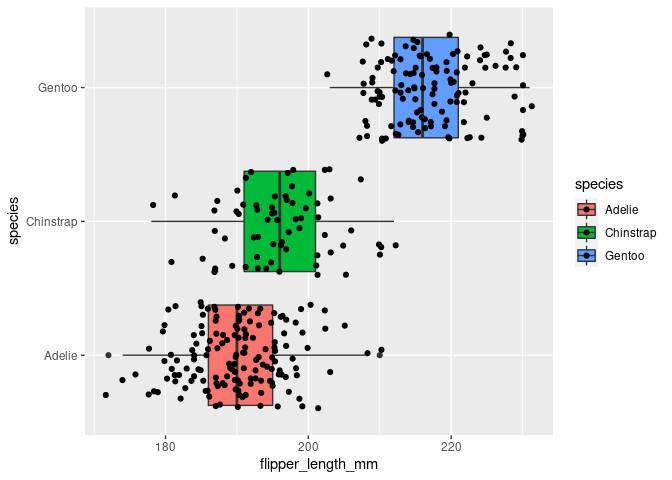
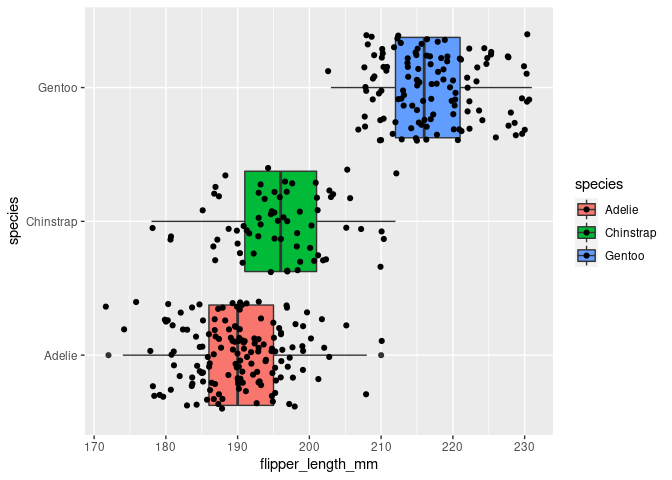
Added box plots to try and explain peaks in the histogram

diff --git a/activity02-ggplot2-intro.md b/activity02-ggplot2-intro.md
@@ -276,7 +276,36 @@ graphs). Using these three graphs to discuss which of these three
 categorical variables seems to be contributing more to these two peaks
 and explain your reasoning.
 
-**Response**:
+``` r
+ggplot(data = penguins, mapping = aes(x = bill_length_mm, y = species)) +
+geom_boxplot()
+```
+
+    ## Warning: Removed 2 rows containing non-finite values (stat_boxplot).
+
+![](activity02-ggplot2-intro_files/figure-gfm/bill_length_by_species-1.png)<!-- -->
+
+``` r
+ggplot(data = penguins, mapping = aes(x = bill_length_mm, y = sex)) +
+geom_boxplot()
+```
+
+    ## Warning: Removed 2 rows containing non-finite values (stat_boxplot).
+
+![](activity02-ggplot2-intro_files/figure-gfm/bill_length_by_sex-1.png)<!-- -->
+
+``` r
+ggplot(data = penguins, mapping = aes(x = bill_length_mm , y = island )) +
+geom_boxplot()
+```
+
+    ## Warning: Removed 2 rows containing non-finite values (stat_boxplot).
+
+![](activity02-ggplot2-intro_files/figure-gfm/bill_length_by_island-1.png)<!-- -->
+
+**Response**: the type of species and the island that they are found may
+have led to the peaks in the graphs because the two factors also lead to
+longer bill lengths as seen in the box plots.
 
 Knit, then stage everything listed in your **Git** pane, commit (with a
 meaningful commit message), and push to your GitHub repo. Go to GitHub
